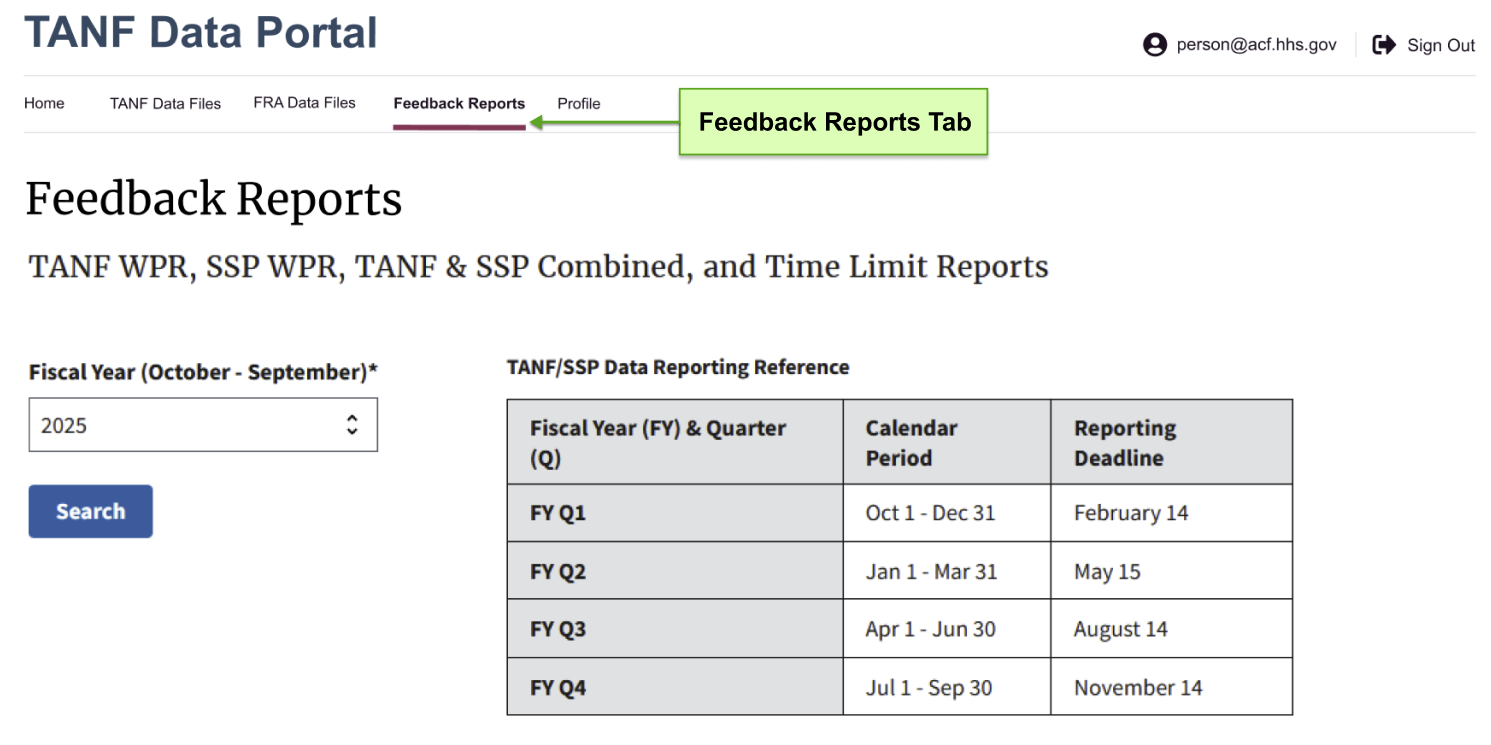
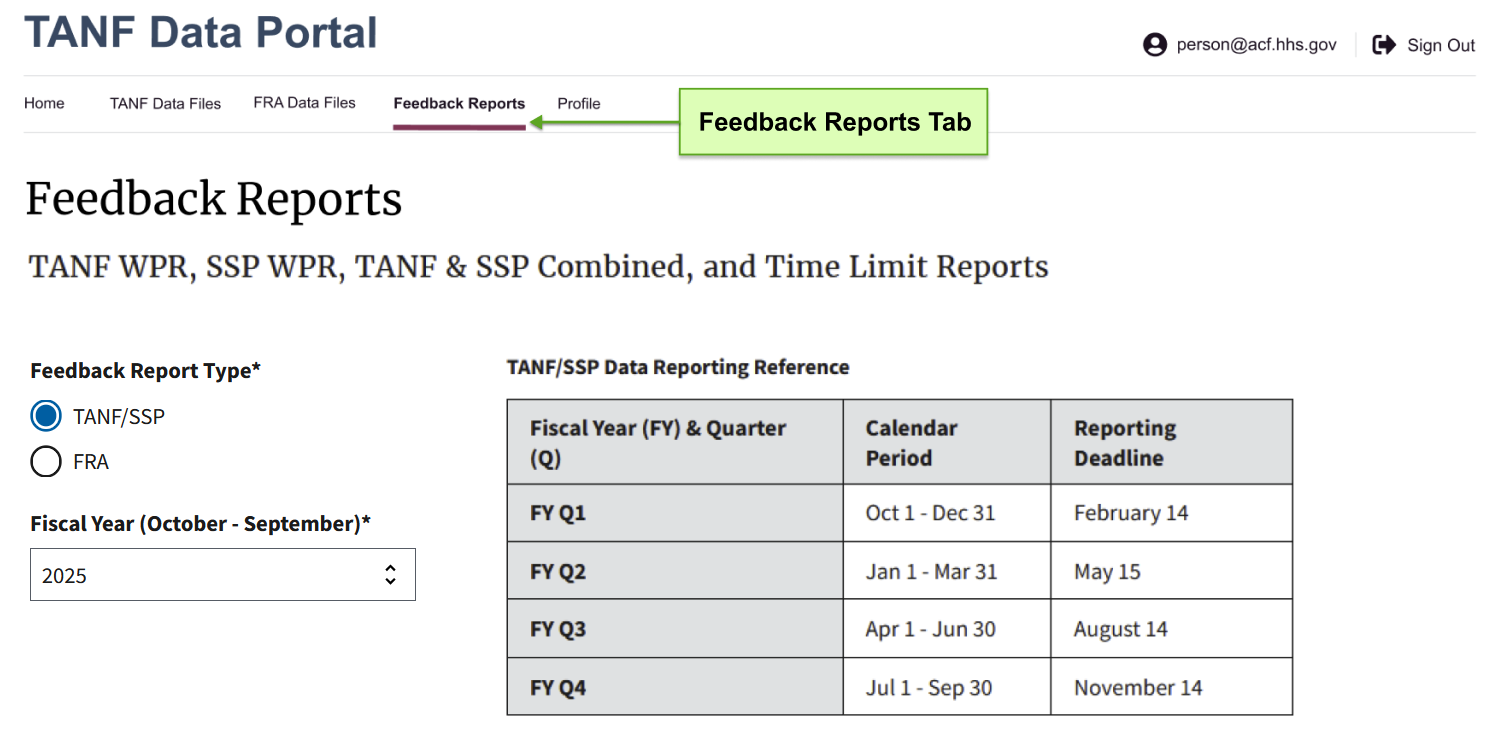
Release notes, feedback reports

Changed region(s): [[0.0, 0.4631, 0.2468, 0.8027], [0.216, 0.5557, 0.2468, 0.5866]]

diff --git a/knowledge-center/feedback-reports.html b/knowledge-center/feedback-reports.html
@@ -15,7 +15,12 @@
     <script src="components/mobile-navigation.js" defer></script>
     <script src="components/shutdown-banner.js" defer></script>
    
+<style>
 
+html {
+  scroll-behavior: smooth;
+}
+</style>
 
 
   </head>
@@ -189,10 +194,13 @@
 
          <div style="min-height: 22px;"></div>
 
- <p>Jump to:</p>
+ <p><strong>Jump to:</strong></p>
  <ul>
   <li><a href="#viewing">Finding Feedback Reports</a></li>
-    <li><a href="#understanding">Understanding Feedback Reports</a></li>
+    <li><a href="#understanding">TANF/SSP Feedback Reports</a> </li>
+      <li><a href="#fra">FRA Feedback Reports</a></li>
+   
+
  </ul>
 
          <hr class="releaseHr" style="margin-bottom: 30px;">
@@ -202,9 +210,9 @@
 
        <ol class="usa-process-list">
           <li class="usa-process-list__item">
-            <h2 class="usa-process-list__heading">Search for the reporting period to view</h2>
+            <h2 class="usa-process-list__heading">Search for a report type and reporting period</h2>
             <p class="margin-top-05">
-              On the Feedback Reports page, complete the search fields for 'Fiscal Year (October – September)' to identify which data you’ll be viewing. The TANF/SSP Data Reporting Reference table is provided to help you map the calendar period content within the file to the reporting fiscal period and its respective reporting deadline.
+              On the Feedback Reports page, complete the search fields for 'Feedback Report Type' and 'Fiscal Year (October – September)' to identify which data you’ll be viewing. The Reporting Deadline Reference tables are provided to help you map the calendar period content within the file to the reporting fiscal period and its respective reporting deadline.
               <div style="min-height: 22px;"></div>
                 <a href="../img/feedback-reports/feedback-reports-tab.png" data-lity data-lity-desc="Feedback reports tab shown in the TDP nav bar">
               <img src="../img/feedback-reports/feedback-reports-tab.png" alt="Feedback reports tab shown in the TDP nav bar">
@@ -224,7 +232,7 @@
           </li>
      </ol>
 
-     <p>TDP will send you a <a href="about-email-notifications.html#feedbackemail">notification email</a> when Feedback Reports are uploaded and link you to the reports from the submission history section of a reporting period you're viewing in the Data Files tab.</p>
+     <p>TDP will send you a <a href="about-email-notifications.html#feedback">notification email</a> when Feedback Reports are uploaded and link you to the reports from the submission history section of a reporting period you're viewing in the Data Files tab.</p>
       <a href="../img/feedback-reports/feedback-available.png" data-lity data-lity-desc="Informational banner above TANF Submission History reading: Feedback Reports Available as of 12/1/2021. Please review the feedback (link) and if needed, resubmit complete and accurate data">
               <img src="../img/feedback-reports/feedback-available.png" alt="Informational banner above TANF Submission History reading: Feedback Reports Available as of 12/1/2021. Please review the feedback (link) and if needed, resubmit complete and accurate data">
                 </a>
@@ -232,13 +240,13 @@
               <hr class="releaseHr" style="margin-bottom: 30px;">
 
 
-      <h2 id="understanding">Understanding Feedback Reports</h2>
+      <h2 id="understanding">TANF/SSP Feedback Reports</h2>
 
        <p style="margin-top: .50rem">Each ZIP file contains multiple feedback reports for the preliminary work participation rate and time limit calculations. Please refer to the most recently produced report for the most up-to-date feedback about your data. For examples of each type of feedback report and explanations of error flags please refer to the downloadable workbook below. <br><br>If you have any questions or require assistance, please contact <a href="mailto:Yun.Song@acf.hhs.gov?cc=TANFdata@acf.hhs.gov">Yun.Song@acf.hhs.gov</a> and copy TANFData@acf.hhs.gov.</p>
 
          <a style="margin-top: .5rem" href="Reference TANF & SSP WPR & TL Feedback Reports 2026-02 Experimental.xls" class="usa-button">Download Workbook</a>
 
-      <h3 style="margin-top: 16px; margin-bottom: 16px;">Report types included in the workbook</h3>
+      <h3 style="margin-top: 16px; margin-bottom: 16px;">Reports included in the workbook</h3>
       <div style="display: flex; flex-direction: row; gap: 8px;">
         <div style="display: flex-item; background-color: #c5d9f1; border-radius: 5px; border-color: #333; border-style: solid; padding: 16px; width: 50%;">
           <h4 style="margin-top: 8px">TANF WPR Reports</h4>
@@ -292,8 +300,14 @@
         </div>
      </div>
 
+              <hr class="releaseHr" style="margin-bottom: 30px;">
 
+                    <h2 id="fra">FRA Feedback Reports</h2>
 
+<ol>
+  <li style="min-width: 100%;"><strong>FRA TANF Exiters Submissions</strong> <em>(e.g., FRA_TE_Submissions_FYYYY_XX.xlsx)</em> summarizes the quality of SSNs reported in the FRA TANF Exiter submissions for a given fiscal year, including counts of total SSNs received, placeholder SSNs, invalid SSNs, and potential duplicate exiters by exit month. These counts help identify data issues that may affect the accuracy of federal reporting and subsequent matching processes.</li>
+    <li style="min-width: 100%; margin-top: 24px;"><strong>FRA TANF Exiter Measures</strong> This feedback report provides your program’s most recent results on the three national Fiscal Responsibility Act (FRA) Work Outcome Measures—Employment Rate (2nd Quarter after Exit), Median Earnings (2nd Quarter after Exit), and Employment Retention Rate (4th Quarter after Exit). The report is based on quarterly TANF exiter data from TDP matched to wage records from the National Directory of New Hires (NDNH). <br><br> It includes summary results, supporting tables and charts, and additional measures showing employment outcomes over time. The report also highlights data completeness by quarter to help interpret recent results. <br><br> A notes section explains data sources, matching methods, measure definitions, and key limitations—such as incomplete wage data for recent quarters, how unmatched individuals are treated, and how duplicate or closely timed exit records are handled. <br><br> The data and measures in this report are provisional and will be updated over time as more complete wage data become available. The composition of the report is subject to change based on feedback from TANF partners. </li>
+</ol>
 
       
      

diff --git a/knowledge-center/release-notes.html b/knowledge-center/release-notes.html
@@ -414,6 +414,41 @@
 
 
         <hr class="releaseHr">
+ <h2 style="margin-top: 32px;" id="dec172025">April 21, 2026 (v 4.17.0)</h2>
+
+
+        <h3 style="margin-top: 16px; color: #595959;">Added:</h3>
+        <ul class="usa-icon-list">
+          <li class="usa-icon-list__item" style="margin-top: 16px;">
+            <div class="usa-icon-list__icon text-ink">
+              <img src="../img/added.svg" aria-hidden="true" alt="" style="background-color: #d3ffcc; border-radius: 5px; width: 18px; height: 18px; position: relative; top: 2px; margin-right: 22px; margin-left: 5px;"/>
+            </div>
+            <div class="usa-icon-list__content">
+              <h5 class="usa-icon-list__title">
+                FRA Feedback Reports are now distributed via TDP
+              </h5>
+              <p>All programs submitting FRA data will now receive Feedback Reports via TDP including counts and measures which help identify data issues that may affect the accuracy of federal reporting. <a href="feedback-reports.html#fra">Learn more about Feedback Reports in TDP.</a></p>
+            </div>
+          </li>
+          </ul>
+<!-- 
+           <h3 style="margin-top: 16px; color: #595959;">Changed / Fixed:</h3>
+        <ul class="usa-icon-list">
+          <li class="usa-icon-list__item" style="margin-top: 16px;">
+            <div class="usa-icon-list__icon text-ink">
+                <img src="../img/changed.svg" aria-hidden="true" alt="" style="background-color: #b3e2ff; border-radius: 5px; width: 18px; height: 18px; position: relative; top: 2px; margin-right: 5px; margin-left: 5px;"/>
+          </div>
+          <div class="usa-icon-list__content">
+            <h5 class="usa-icon-list__title">
+              Improved Email Notifications Knowledge Center documentation
+            </h5>
+            <p>TDP's system validation rules have been updated to handle records with trailing whitespace without returning an error. However, if a record does not meet the minimum required length, the system will reject it and return an error, such as:</p>
+        
+          </div>
+        </li>
+        </ul> -->
+
+     <hr class="releaseHr">
 
  <h2 style="margin-top: 32px;" id="dec172025">February 17, 2026 (v 4.12.0)</h2>
 
